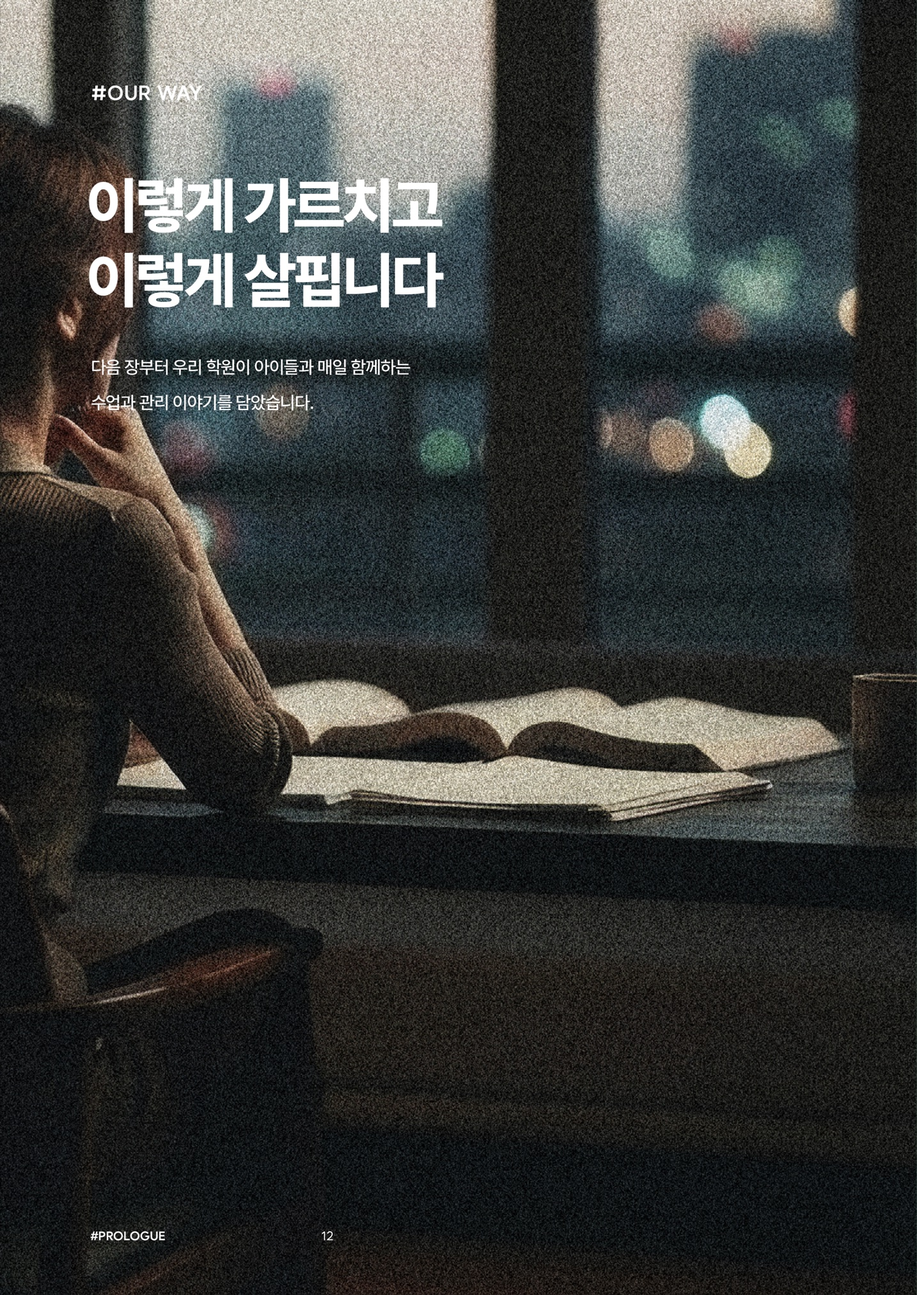
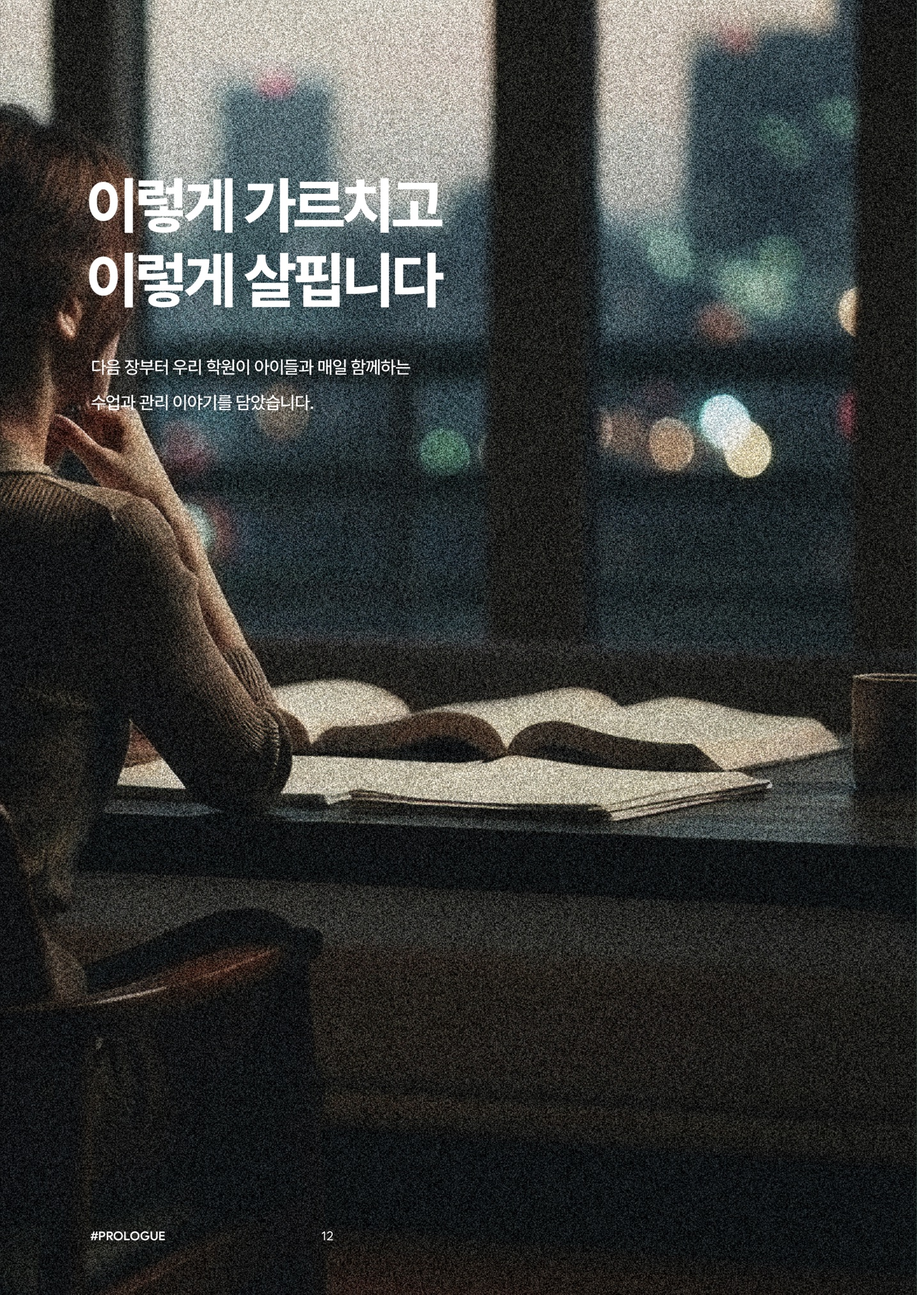
v2 에디터: 12p 그림 교체(#OUR WAY 뺌), 그림 경로에 버전 붙임

diff --git a/v2/diy/diy-editor.js b/v2/diy/diy-editor.js
@@ -97,7 +97,7 @@ const LAYOUTS = {
   blank1: { kind:'single', name:'빈 페이지', sub:'처음부터 직접', build: g => [academyText(at(g).L)] },
   // 고정 페이지: 디자이너가 만든 그림(재단 크기 182×257) 한 장. 원장님은 바꾸지 않고, 구성 목록에도 나오지 않습니다.
   // 12p 안내(#OUR WAY) — 13p부터 주제별 간지가 시작됨을 알림(2026-11-05).
-  prologue: { kind:'single', name:'쉬어 가는 페이지', sub:'고정', fixed:'diy/fixed/p012_prologue.jpg', build: () => [] },
+  prologue: { kind:'single', name:'쉬어 가는 페이지', sub:'고정', fixed:'diy/fixed/p012_prologue.jpg?v=20261105h', build: () => [] },
 
   // ---------- 펼침면 ----------
   greeting: { kind:'spread', name:'인사말', sub:'제목 + 본문 (마지막 문장은 안쪽 표지에도)', greeting:true, build: g => { const { L, R } = at(g); return [
